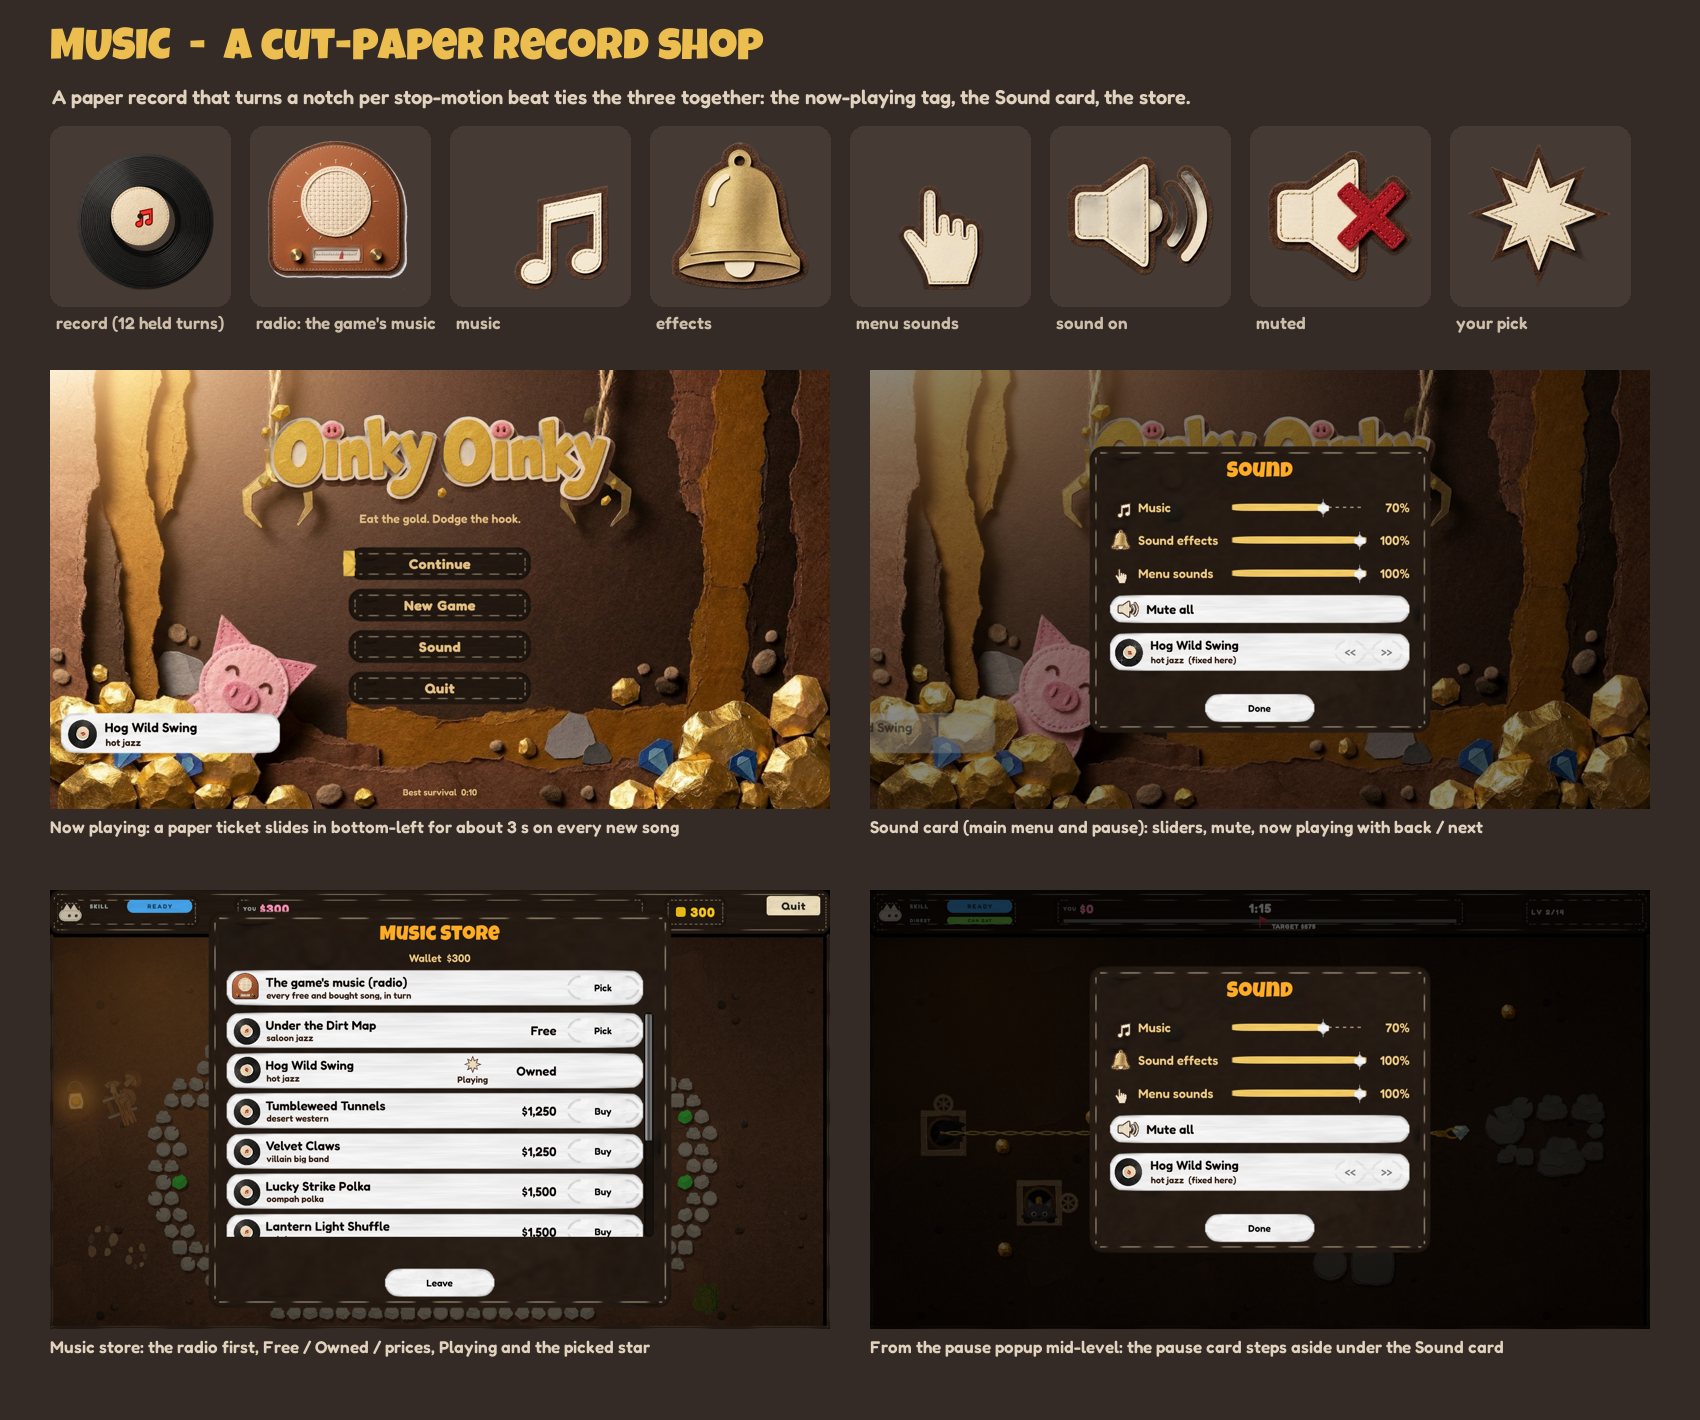
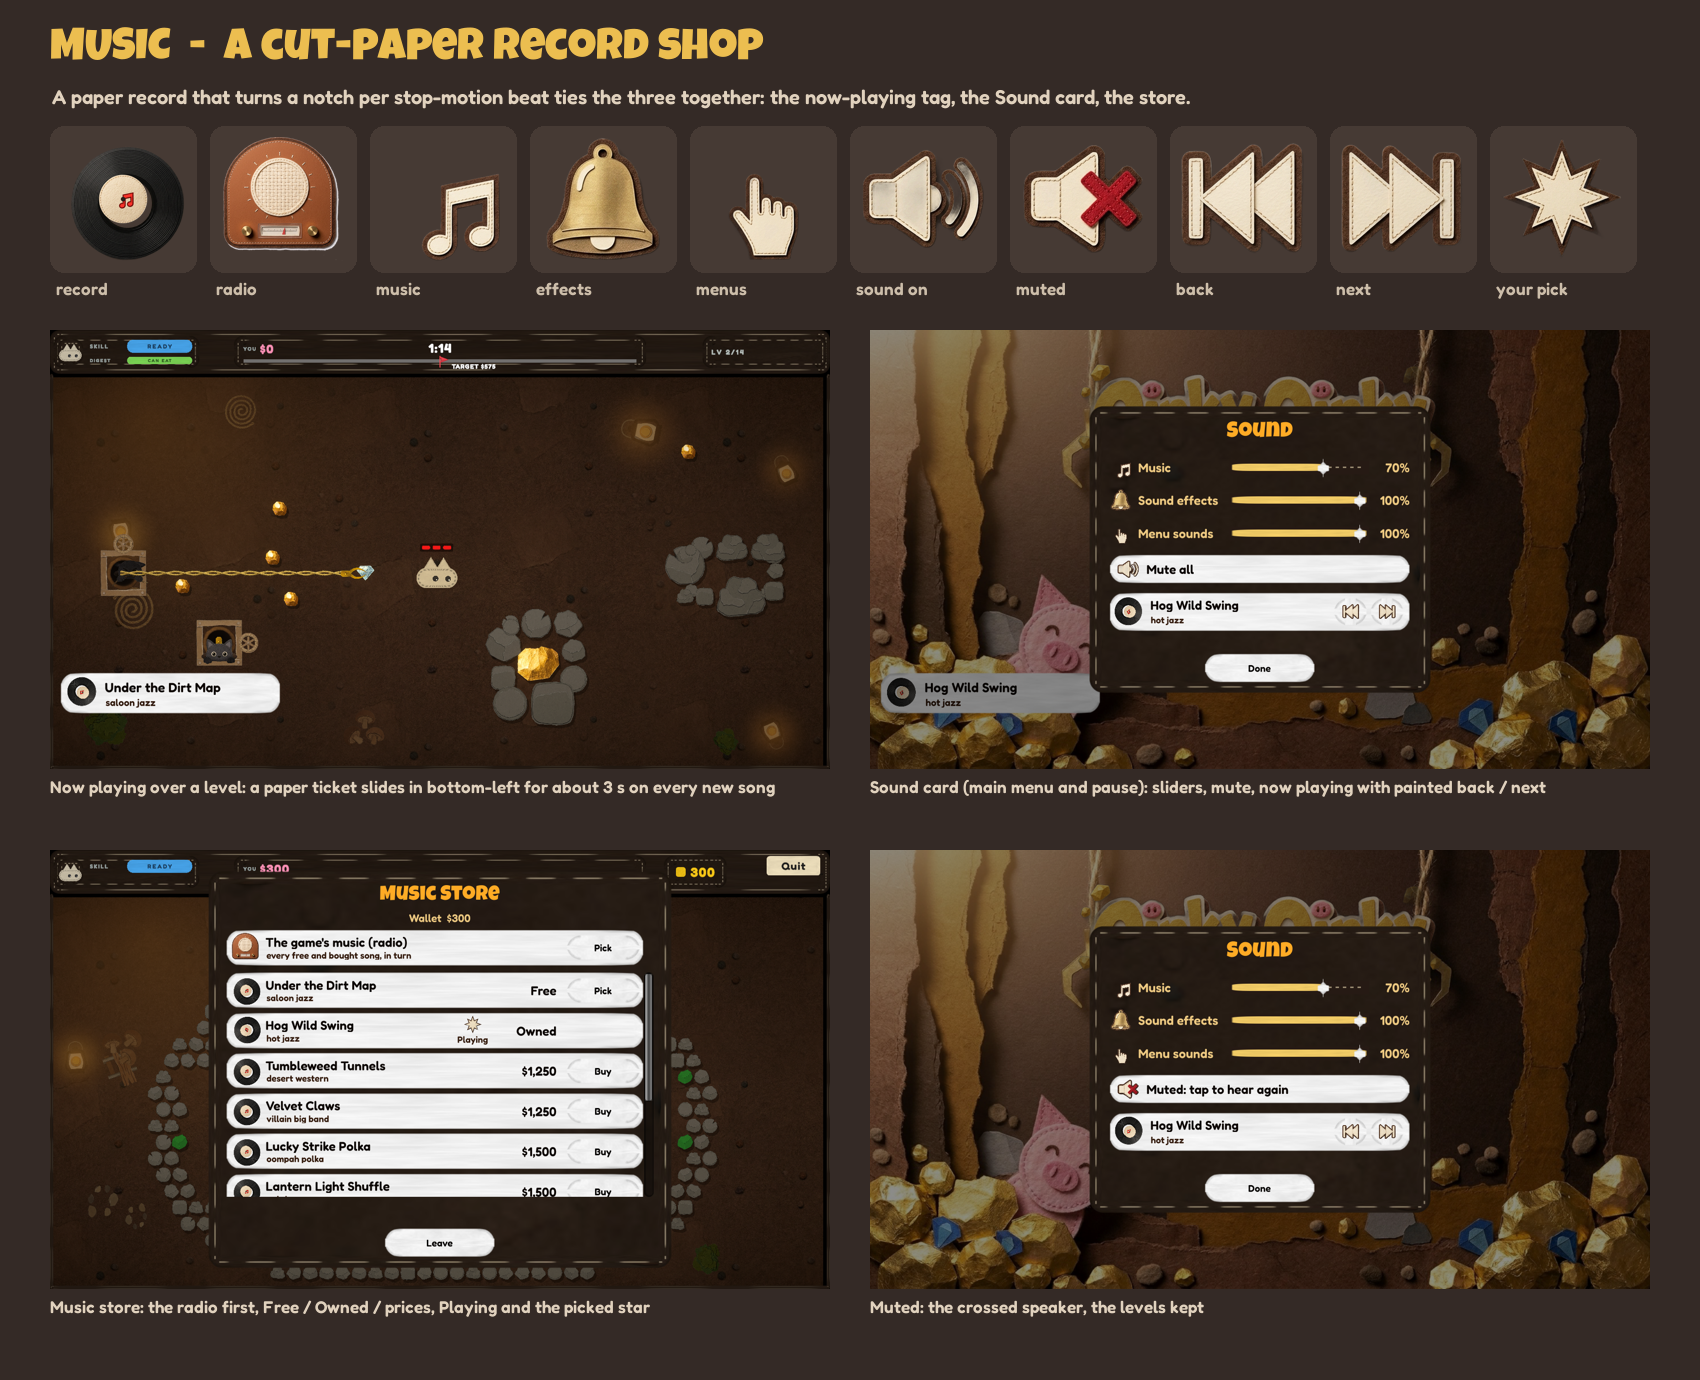
Music art: painted back / next arrows; every state checked
- The Sound card's back / next are painted paper arrows (Icon_Back /
  Icon_Next, cut from a new Meshy painting) instead of typed << >>.
- Checked in real builds: skipping on the radio changes the song and the
  tag announces it (also over a level); mute on; back / next greyed during a
  pick. With real mouse input in a running build: a slider drag saved on
  release (51%), Mute clicked off, next clicked.
- Capture tool: radio, levelsong and mute actions; the unmute helper now
  survives the next capture scene.

diff --git a/Assets/Scripts/Art/SoundPanel.cs b/Assets/Scripts/Art/SoundPanel.cs
@@ -10,7 +10,7 @@ using UnityEngine;
 //   Now playing - the record, the song's title and style, and back / next (SoundDirector.PreviousSong /
 //     NextSong), greyed while a store pick or survival's song plays (SoundDirector.CanSkip).
 // IMGUI buttons click with Sfx.Ui("ui_click"); the sliders don't (they preview on release instead).
-// Art: Resources/Art/Music/{Icon_Note,Icon_Bell,Icon_Hand,Icon_Speaker,Icon_Mute,Record}, UI/FeltPanel,
+// Art: Resources/Art/Music/{Icon_Note,Icon_Bell,Icon_Hand,Icon_Speaker,Icon_Mute,Icon_Back,Icon_Next,Record_*}, UI/FeltPanel,
 // UI/PaperCard; Fredoka (PaperType.Body), the display face for the title.
 public class SoundPanel : MonoBehaviour
 {
@@ -26,7 +26,7 @@ public class SoundPanel : MonoBehaviour
 
     GUIStyle card, paper, title, label, small, percent, ink, inkSmall, thumb, emptyStyle;
     Texture[] icons;
-    Texture speaker, muted, record, fill;
+    Texture speaker, muted, record, fill, back, next;
     static readonly Color Gold = new Color(1f, 0.84f, 0.42f), Cream = new Color(0.97f, 0.9f, 0.74f),
                           Ink = new Color(0.24f, 0.16f, 0.1f), Umber = new Color(0.48f, 0.34f, 0.22f);
 
@@ -127,11 +127,23 @@ public class SoundPanel : MonoBehaviour
         GUI.Label(new Rect(np.x + 67f, np.y + 33f, np.width - 200f, 22f),
             now == null ? "" : canSkip ? now.style : now.style + "  (fixed here)", inkSmall);
         GUI.enabled = canSkip;
-        if (GUI.Button(new Rect(np.xMax - 124f, np.y + 11f, 54f, 40f), "<<")) { SoundDirector.PreviousSong(); Sfx.Ui("ui_click"); }
-        if (GUI.Button(new Rect(np.xMax - 64f, np.y + 11f, 54f, 40f), ">>")) { SoundDirector.NextSong(); Sfx.Ui("ui_click"); }
+        if (ArrowButton(new Rect(np.xMax - 124f, np.y + 9f, 54f, 44f), back, "<<")) { SoundDirector.PreviousSong(); Sfx.Ui("ui_click"); }
+        if (ArrowButton(new Rect(np.xMax - 64f, np.y + 9f, 54f, 44f), next, ">>")) { SoundDirector.NextSong(); Sfx.Ui("ui_click"); }
         GUI.enabled = true;
 
         if (GUI.Button(new Rect(box.center.x - 90f, box.yMax - 64f, 180f, 46f), "Done")) { Sfx.Ui("ui_click"); Close(); }
+    }
+
+    // A paper cap with the painted back / next arrow (faded with the rest when skipping is off)
+    static bool ArrowButton(Rect r, Texture icon, string fallback)
+    {
+        if (icon == null) return GUI.Button(r, fallback);
+        bool pressed = GUI.Button(r, GUIContent.none);
+        Color was = GUI.color;
+        if (!GUI.enabled) GUI.color = new Color(1f, 1f, 1f, 0.35f);
+        GUI.DrawTexture(new Rect(r.x + 9f, r.y + 8f, r.width - 18f, r.height - 16f), icon, ScaleMode.ScaleToFit, true);
+        GUI.color = was;
+        return pressed;
     }
 
     // One volume row: icon, name, a felt track with a gold paper fill and a paper-tag handle, whole percent
@@ -206,6 +218,8 @@ public class SoundPanel : MonoBehaviour
         speaker = Tex("Music/Icon_Speaker");
         muted = Tex("Music/Icon_Mute");
         record = Tex("Music/Record");
+        back = Tex("Music/Icon_Back");
+        next = Tex("Music/Icon_Next");
     }
 
     static Texture Tex(string name) { Sprite s = ArtLibrary.Get(name); return s != null ? s.texture : null; }

diff --git a/tools/art_capture/ArtCaptureRunner.cs b/tools/art_capture/ArtCaptureRunner.cs
@@ -164,6 +164,20 @@ public class ArtCaptureRunner : MonoBehaviour
                 if (hub != null && portal != null) hub.FocusPortal(portal);
                 break;
             case "walk": break;   // handled while saving frames
+            case "radio":       // back to the radio, skip a song, open the Sound card (back / next enabled, a fresh tag)
+                MusicLibrary.Select(null);
+                SoundDirector.NextSong();
+                SoundPanel.Show();
+                break;
+            case "levelsong":   // mid-level: back to the radio and skip a song, so the now-playing tag shows over the level HUD
+                MusicLibrary.Select(null);
+                SoundDirector.NextSong();
+                break;
+            case "mute":        // the Sound card muted; sound comes back on after the shot, so later runs aren't silent
+                SoundDirector.Muted = true;
+                SoundPanel.Show();
+                new GameObject("Capture unmute").AddComponent<CaptureUnmute>();
+                break;
             case "sound":       // the papercraft Sound card (SoundPanel)
                 SoundPanel.Show();
                 break;
@@ -228,4 +242,12 @@ public class ArtCaptureRunner : MonoBehaviour
         Destroy(shot);
         Debug.Log("ART_CAPTURE_SAVED " + name);
     }
+}
+
+// Capture only: turns mute back off a moment after the "mute" shot
+public class CaptureUnmute : MonoBehaviour
+{
+    float start;
+    void Start() { start = Time.unscaledTime; DontDestroyOnLoad(gameObject); }   // survives the next capture scene
+    void Update() { if (Time.unscaledTime - start > 2f) { SoundDirector.Muted = false; PlayerPrefs.Save(); Destroy(gameObject); } }
 }

diff --git a/tools/art/make_music.py b/tools/art/make_music.py
@@ -7,7 +7,8 @@ Sources (Meshy image-to-image in the keyframe's cut-paper style): docs/images/mu
     radio_white.png   the same radio painted on pure white, keyed here (its brown body survives)
     icons.png         a sheet of flat paper icons, 3 x 3 cells; the top two rows are used:
                       note, bell, hand / speaker, muted speaker, star
-Output: Assets/Resources/Art/Music/Record.png, Record_00..11.png (its held turns), Radio.png, Icon_{Note,Bell,Hand,Speaker,Mute,Star}.png
+    arrows.png        back / next song, side by side
+Output: Assets/Resources/Art/Music/Record.png, Record_00..11.png (its held turns), Radio.png, Icon_{Note,Bell,Hand,Speaker,Mute,Star,Back,Next}.png
 Usage: python tools/art/make_music.py   (from the repo root)
 """
 from collections import deque
@@ -76,6 +77,11 @@ def main():
     ic = icons()
     for name, im in ic.items():
         im.save(OUT / f"Icon_{name}.png")
+    # back / next song: arrows.png holds the two side by side (left half back, right half next)
+    arrows = Image.open(SRC / "arrows.png").convert("RGBA")
+    half = arrows.width // 2
+    square(arrows.crop((0, 0, half, arrows.height)), 256).save(OUT / "Icon_Back.png")
+    square(arrows.crop((half, 0, arrows.width, arrows.height)), 256).save(OUT / "Icon_Next.png")
 
     square(key_white(Image.open(SRC / "radio_white.png")), 256).save(OUT / "Radio.png")
 

diff --git a/docs/music-art.md b/docs/music-art.md
@@ -30,7 +30,7 @@ on the map) and a **Sound** entry in the main menu (before Quit).
   - On release, effects play `coin_small` and menus play `ui_click`. Music is heard live while dragging.
 - **Mute all:** a paper toggle with the speaker or the crossed speaker (`SoundDirector.Muted`). The
   slider levels are kept.
-- **Now playing:** the record, the title and style, and **<< / >>** (`PreviousSong` / `NextSong`).
+- **Now playing:** the record, the title and style, and painted paper **back / next** arrows (`PreviousSong` / `NextSong`).
   These are greyed while a store pick or survival's song plays (`SoundDirector.CanSkip`, a new
   read-only getter), and the style line then says "(fixed here)".
 - **Closing:** Done, any scene change, Esc on the menu card, or the pause popup closing all close it.
@@ -61,5 +61,18 @@ A felt card titled in gold, styled as a record shop:
   - **Radio:** the painting on white, keyed.
   - **Record label:** the background removal took the record's label, so it was rebuilt from the
     radio's felt grille and the painted note dyed red.
-  - **Icons:** cut from one sheet.
+  - **Icons:** cut from one sheet; the back / next arrows from a second painting (`arrows.png`).
 - Capture: `tools/art_capture/capture.ps1 -Scenes "Menu,Menu:sound,level_01:pausesound,world_map:musicstore,world_map:musicpick"`.
+
+## Checked in real builds
+
+- **Captures:** the tag on the menu, the world map and over level 1. Skipping mid-level changed the
+  song (Hog Wild Swing to Under the Dirt Map) and the tag announced it. Also captured: the Sound
+  card from the menu and from the pause popup, back / next enabled on the radio and greyed during a
+  pick, mute on, and the store with its radio row, Free / Owned / prices, Playing and the picked star.
+- **Real mouse input** in a running build:
+  - dragging Sound effects to 51%: the level was saved on release while the game ran, which is the
+    step that also plays the preview;
+  - clicking Mute back off;
+  - clicking next: the song changed and the tag slid in.
+
